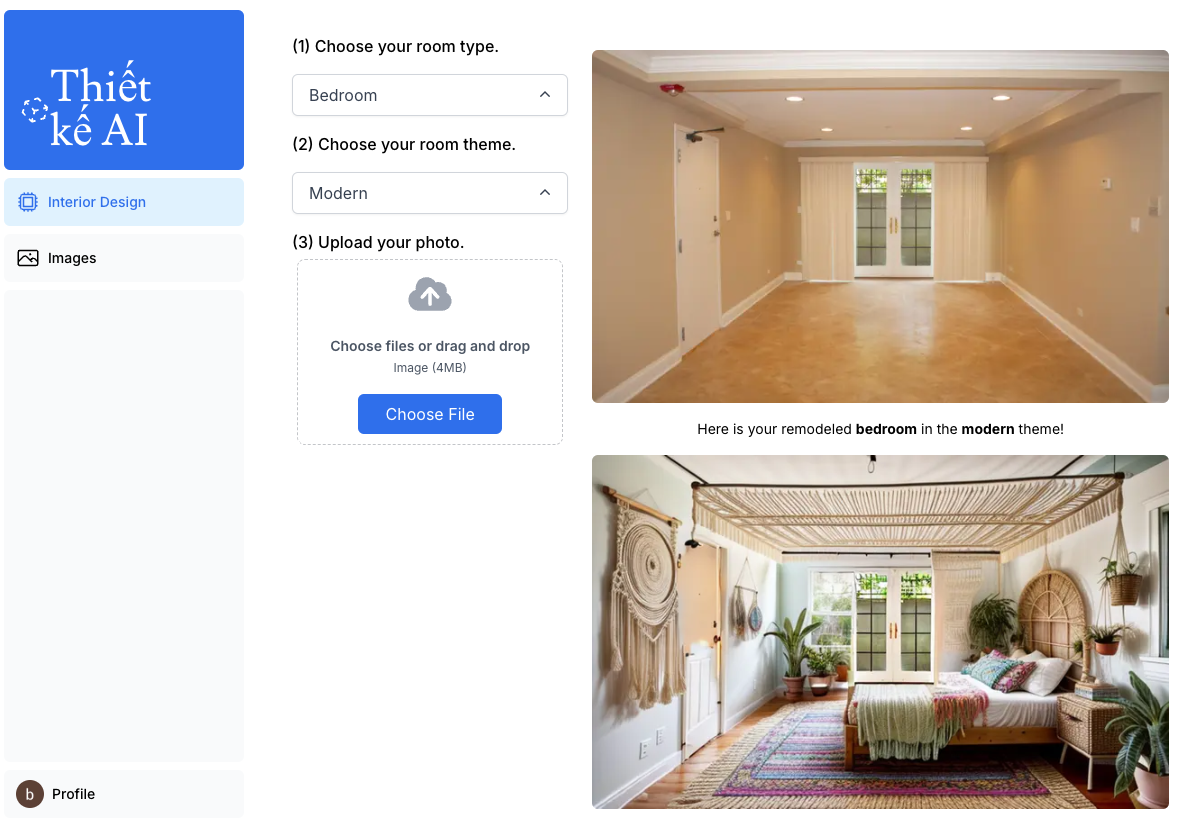
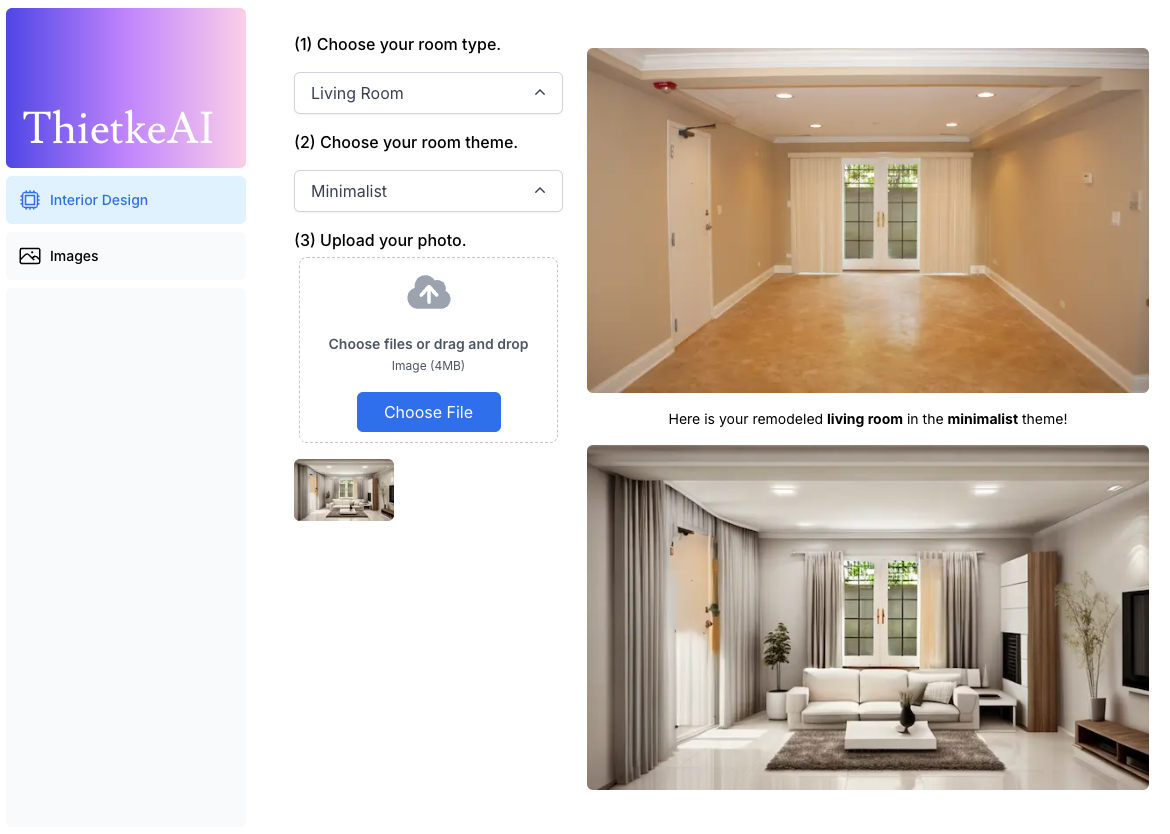
changed UI

diff --git a/src/app/(dashboard)/dashboard/interior/page.tsx b/src/app/(dashboard)/dashboard/interior/page.tsx
@@ -36,10 +36,10 @@ export default function Page() {
         setError(null);
 
         if (originalImageId) {
-            console.log("Attempting to upload processed image. URL:", imageUrl);
+            // console.log("Attempting to upload processed image. URL:", imageUrl);
             try {
                 const processedUrl = await uploadProcessedImage(imageUrl, originalImageId);
-                console.log('Processed image uploaded successfully: from processed image to', processedUrl);
+                // console.log('Processed image uploaded successfully: from processed image to', processedUrl);
             } catch (error) {
                 console.error("Failed to upload processed image:", error);
                 setError("Failed to save the processed image. Please try again. Error: " + (error instanceof Error ? error.message : String(error)));
@@ -81,7 +81,7 @@ export default function Page() {
         try {
             const res = await fetch(`/api/gen?id=${id}`);
             const data = await res.json();
-            console.log("Prediction status response:", data);
+            // console.log("Prediction status response:", data);
 
             if (data.status === "succeeded") {
                 const imageUrl = Array.isArray(data.restoredImage) ? data.restoredImage[0] : data.restoredImage;

diff --git a/src/app/(marketing)/page.tsx b/src/app/(marketing)/page.tsx
@@ -9,7 +9,7 @@ export default function Page() {
   return (
     <main className="flex min-h-screen flex-col p-6">
       {/* <div className={styles.shape} /> */}
-      <div className="flex h-20 shrink-0 items-end rounded-lg bg-blue-500 p-4 md:h-52">
+      <div className="flex h-20 shrink-0 items-end rounded-lg p-4 bg-gradient-to-r from-indigo-600 via-purple-400 to-pink-200">
         <AcmeLogo />
         {/* <div
           className="h-0 w-0 border-b-[30px] border-l-[20px] border-r-[20px] border-b-black border-l-transparent border-r-transparent"
@@ -27,7 +27,7 @@ export default function Page() {
           </p>
           <Link
             href="dashboard/interior"
-            className="flex items-center gap-5 self-start rounded-lg bg-blue-500 px-6 py-3 text-sm font-medium text-white transition-colors hover:bg-blue-400 md:text-base"
+            className="flex items-center gap-5 self-start rounded-lg bg-gradient-to-r from-indigo-600 via-purple-400 to-pink-200 px-6 py-3 text-sm font-medium text-white transition-colors hover:bg-blue-400 md:text-base"
           >
             <span>Sáng tạo ngay</span> <ArrowRightIcon className="w-5 md:w-6" />
           </Link>

diff --git a/src/app/ui/dashboard/sidenav.tsx b/src/app/ui/dashboard/sidenav.tsx
@@ -12,12 +12,12 @@ import {
 
 export default function SideNav() {
   return (
-    <div className="flex h-full flex-col px-3 py-4 md:px-2">
+    <div className="flex h-full flex-col px-3 py-4 md:px-2 ">
       <Link
-        className="mb-2 flex h-20 items-end justify-start rounded-md bg-blue-600 p-4 md:h-40"
+        className="mb-2 flex h-20 items-end justify-start rounded-md bg-blue-600 p-4 md:h-40 bg-gradient-to-r from-indigo-600 via-purple-400 to-pink-200"
         href="/"
       >
-        <div className="w-32 text-white md:w-40">
+        <div className="w-32 text-white md:w-40 ">
           <AcmeLogo />
         </div>
       </Link>

diff --git a/src/app/ui/acme-logo.tsx b/src/app/ui/acme-logo.tsx
@@ -6,10 +6,10 @@ import { lusitana } from '@/app/ui/fonts';
 export default function AcmeLogo() {
   return (
     <div
-      className={`${lusitana.className} flex flex-row items-center leading-none text-white`}
+      className={`${lusitana.className} flex flex-row items-center leading-none text-white `}
     >
-      <CubeTransparentIcon className="h-12 w-12 rotate-[15deg]" />
-      <p className="text-[44px]">Thiết kế AI</p>
+      {/* <CubeTransparentIcon className="h-12 w-12 rotate-[15deg]" /> */}
+      <p className="text-[44px]">ThietkeAI</p>
     </div>
   );
 }

diff --git a/src/app/(marketing)/layout.tsx b/src/app/(marketing)/layout.tsx
@@ -8,6 +8,7 @@ import {
   SignedOut,
   UserButton
 } from '@clerk/nextjs'
+import { Analytics } from '@vercel/analytics/react';
 
 export default function RootLayout({
   children,
@@ -18,6 +19,7 @@ export default function RootLayout({
     // <ClerkProvider>
     <html lang="en">
       <body className={`${inter.className} antialiased`}>{children}</body>
+      <Analytics />
     </html>
     // </ClerkProvider>
   );
